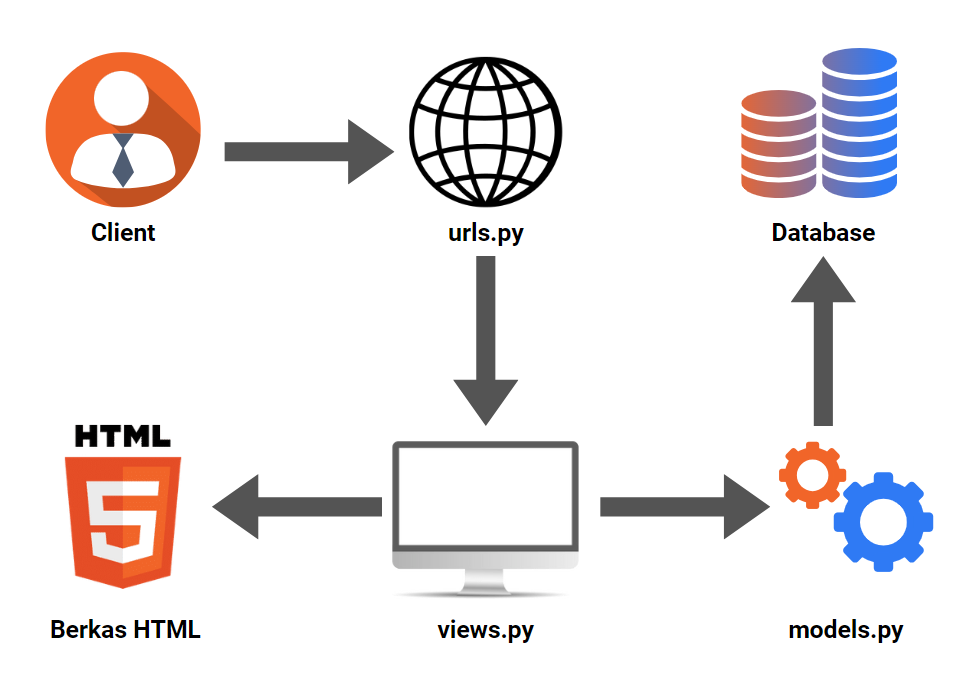
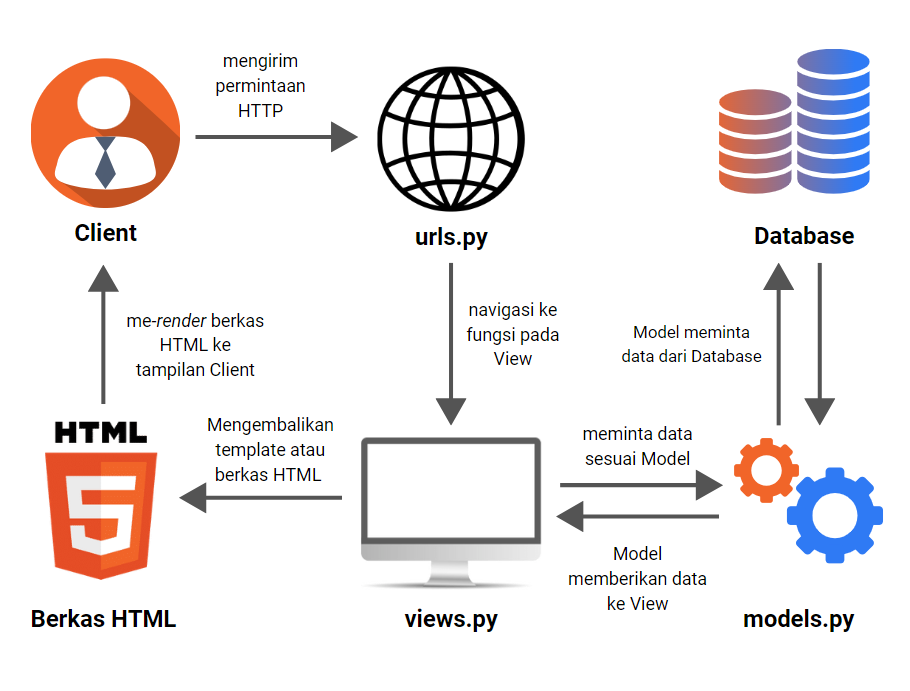
memperbaiki bagan dan penjelasan

diff --git a/README.md b/README.md
@@ -156,22 +156,21 @@ Aplikasi berhasil di-*deploy* dan dapat diakses pada [link ini](https://car-mart
 
 ## Bagan Aplikasi Django
 ![Alt text](images/bagan-django.png)
-- Client meminta browsernya untuk mengunjungi situs berbas  is Django.
-- Browser mengirimkan permintaan (HTTP Request) kepada server untuk mengambil halaman web.
+- Client mengirimkan permintaan (HTTP Request) kepada server untuk mengambil halaman web melalui browser.
 - Permintaan ini diteruskan ke sistem routing yang dikelola oleh Django dan mencari pola URL yang sesuai dengan permintaan klien.
-- Setelah pola URL yang sesuai ditemukan, Django akan memanggil fungsi yang terkait dalam berkas `views.py` yang telah terhubung dengan URL tersebut.
+- Setelah pola URL yang sesuai ditemukan, Django akan memanggil fungsi dalam berkas `views.py` yang telah terhubung dengan URL tersebut.
 - Di dalam berkas `views.py`, Kita dapat menjalankan alur aplikasi dan operasi basis data sesuai dengan arsitektur yang telah ditentukan dalam `models.py`.
 - Setelah semua operasi selesai, fungsi yang terpilih pada berkas `views.py` akan menghasilkan halaman web yang diminta oleh klien dalam berkas HTML atau disebut dengan `template`.
 - Berkas HTML ini disimpan pada direktori `templates` untuk penggunaan berikutnya.
 - Akhirnya, browser client akan merender berkas HTML ini sebagai tanggapan (HTTP Response) dari server Django sehingga menghasilkan tampilan yang terlihat oleh pengguna.
 ## Tujuan Penggunaan Virtual Environment
-Dengan menggunakan *virtual environment*, kita dapat memisahkan versi modul yang digunakan pada setiap proyek yang berbeda, misalnya melalui berkas `requirements.txt` berisi modul yang digunakan pada proyek tersebut. Hal ini membantu mencegah konflik dan masalah keamanan yang mungkin muncul jika kita menggunakan versi yang tidak kompatibel atau berbeda. Alhasil, penggunaan *virtual environment* memungkinkan pengembangan proyek secara paralel dengan *developer* lain lebih efisien dibandingkan membuat proyek Django tanpa menggunakan *virtual environment* (*global environment*).
+Kita tetap dapat membuat proyek Django tanpa menggunakan *environment variable* tetapi tidak cocok digunakan untuk pengembangan proyek yang besar karena satu tim belum tentu menggunakan versi modul yang sama. Dengan menggunakan *virtual environment*, kita dapat memisahkan versi modul yang digunakan pada setiap proyek yang berbeda, misalnya melalui berkas `requirements.txt` berisi modul yang digunakan pada proyek tersebut. Hal ini membantu mencegah konflik dan masalah keamanan yang mungkin muncul jika kita menggunakan versi yang tidak kompatibel atau berbeda. Alhasil, penggunaan *virtual environment* memungkinkan pengembangan proyek secara paralel dengan *developer* lain lebih efisien dibandingkan membuat proyek Django tanpa menggunakan *virtual environment* (*global environment*).
 
 ## Penjelasan MVC, MVT, dan MVVM
 Model-View-Controller (MVC), Model-View-Template (MVT), dan Model-View-ViewModel (MVVM) adalah *design pattern* yang sering digunakan dalam arsitektur perangkat lunak. *Design pattern* merupakan panduan dan *template reusable* yang membantu pengembang perangkat lunak mengorganisir dan merancang kode mereka agar lebih efisien dan mudah dikembangkan.
 
 ### 1. Mode-View-Controller (MVC)
-MVT menggunakan tiga komponen, yaitu Model, View, dan Controller. Model mewakili bagian aplikasi yang berhubungan dengan logika bisnis melalui mengelola dan memanipulasi data. View adalah komponen yang mengatur tampilan atau antarmuka pengguna (UI) aplikasi. Controller adalah bagian yang mengelola interaksi antara pengguna, Model, dan View. Ini adalah komponen yang menerima input dari pengguna, mengirimnya ke Model untuk pemrosesan, dan mengatur tampilan yang sesuai di View.
+MVC menggunakan tiga komponen, yaitu Model, View, dan Controller. Model mewakili bagian aplikasi yang berhubungan dengan logika bisnis melalui mengelola dan memanipulasi data. View adalah komponen yang menampilkan tampilan atau antarmuka pengguna (UI) aplikasi. Controller adalah bagian yang mengelola interaksi antara pengguna, Model, dan View. Ini adalah komponen yang menerima input dari pengguna, mengirimnya ke Model untuk pemrosesan, dan mengatur tampilan yang sesuai di View.
 
 ### 2. Model-View-Template (MVT)
 Komponen MVT hampir mirip dengan MVC, yaitu menggunakan Model yang berkaitan dengan logika bisnis melalui pengelolaan data dan View untuk mengatur tampilan. Sementara itu, MVT menggunakan Template sebagai tampilan HTML untuk menampilkan data dari Model. Perbedaan utama antara MVT dan MVC terletak pada penggunaan Template dalam MVT, yang memungkinkan pemisahan yang lebih jelas antara logika tampilan dan logika aplikasi. Controller pada desain ini sudah dikelola dari *Framework* yang digunakan.
